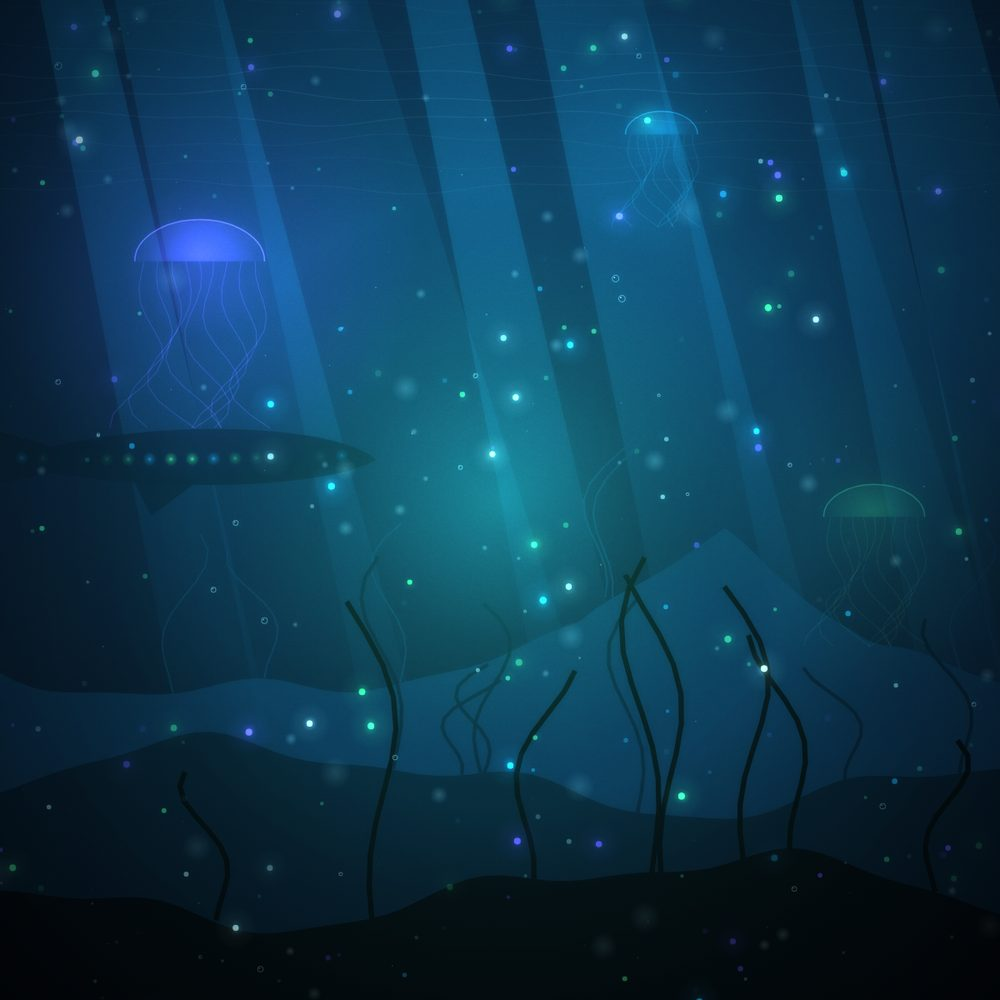
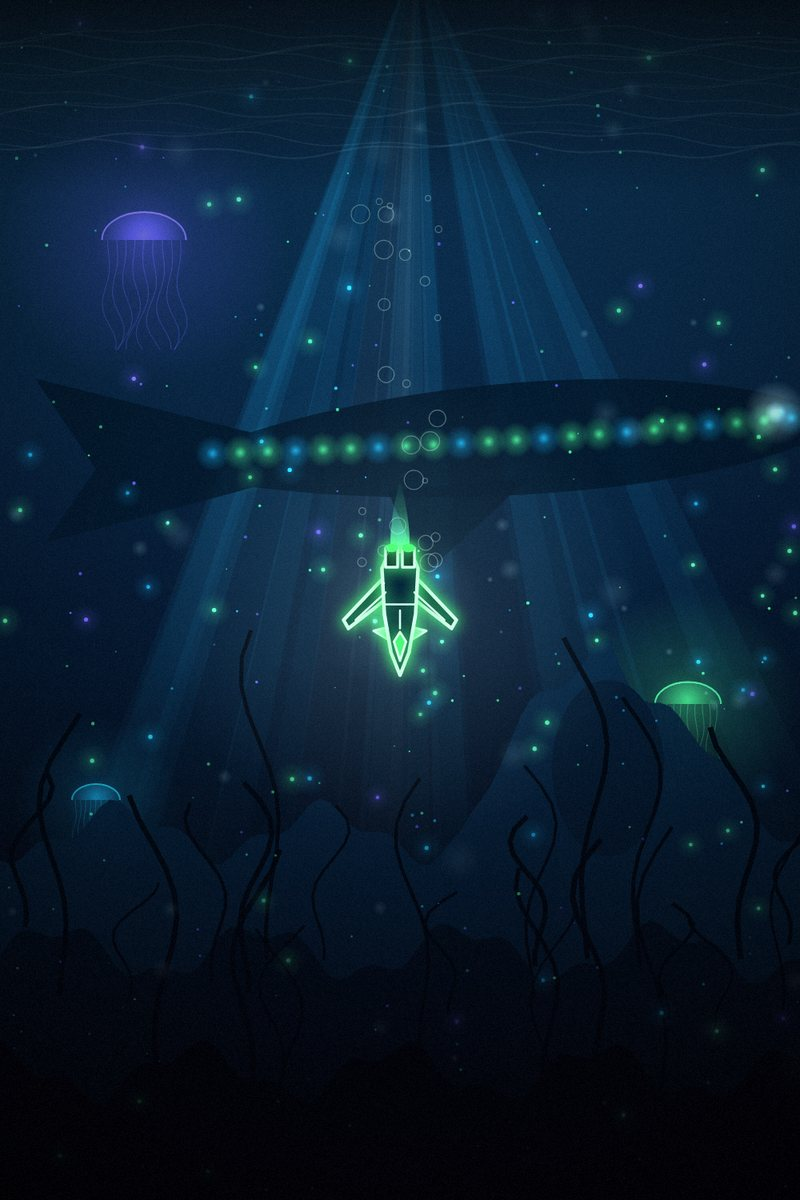
Movie-poster game tiles; site recoloured to the Celestial Co-Pilot palette
- Games tiles are now 2:3 posters: Last Mile Legends credit at the top, big
  title, tagline and release line over a darkened lower third. Placeholder
  poster art painted in code; swap in real key art under the same file names.
- Site tokens switched to the Celestial Co-Pilot brand-kit palette: deep space
  #0A0612, dark violet #1A1033, nebula purple #7B2FF7, magenta-violet #B24BF3,
  holo cyan #35E8E0, soft white #EDE9F5; hero starfield and glows follow.

Claude-Session: https://claude.ai/code/session_014bduxS6iZXM2bQADToQ5gz

diff --git a/website/index.html b/website/index.html
@@ -13,13 +13,16 @@
 /* Layout: a warp-starfield hero, then image-led game tiles, then narrow "shift log" sections; mono timestamps carry the night-shift theme. */
 :root {
   color-scheme: dark;
-  --night: #0B0820;      /* page ground, matches the logo background */
-  --dusk: #140F31;       /* raised surfaces */
-  --ink: #F1EDFF;        /* primary text */
-  --haze: #A9A1CC;       /* secondary text, purple-biased neutral */
-  --violet: #9B5CFF;     /* ring purple */
-  --aqua: #3FF2E3;       /* crescent aqua, used sparingly */
-  --line: rgba(155, 92, 255, 0.22);
+  /* Celestial Co-Pilot palette (Last Mile Legends brand kit) */
+  --night: #0A0612;      /* deep space: page ground */
+  --dusk: #1A1033;       /* dark violet: raised surfaces */
+  --ink: #EDE9F5;        /* soft white: primary text */
+  --haze: #A99CC8;       /* secondary text, violet-biased neutral */
+  --core: #7B2FF7;       /* nebula purple: brand core */
+  --violet: #B24BF3;     /* magenta-violet: brand glow, labels */
+  --aqua: #35E8E0;       /* holo cyan: HUD accent, used sparingly */
+  --gold: #F5C542;       /* warm gold: credits and highlights */
+  --line: rgba(178, 75, 243, 0.24);
   --font-display: "Michroma", "Eurostile", "Arial Black", sans-serif;
   --font-body: "Instrument Sans", "Segoe UI", system-ui, sans-serif;
   --font-mono: "JetBrains Mono", ui-monospace, "SFMono-Regular", Menlo, monospace;
@@ -77,10 +80,11 @@ svg { display: block; }
 
 /* Hero */
 .hero { position: relative; overflow: hidden; border-bottom: 1px solid var(--line); }
+.hero { background: radial-gradient(120% 90% at 30% 20%, #1A1033, var(--night) 60%); }
 .hero::after {
   content: ""; position: absolute; left: 50%; bottom: -55%; width: 140%; aspect-ratio: 3 / 1; max-width: none;
   transform: translateX(-50%); z-index: 0; pointer-events: none;
-  background: radial-gradient(closest-side, rgba(91, 33, 214, 0.38), rgba(20, 180, 217, 0.08) 60%, transparent);
+  background: radial-gradient(closest-side, rgba(123, 47, 247, 0.38), rgba(53, 232, 224, 0.08) 60%, transparent);
 }
 .hero .wrap { position: relative; z-index: 1; display: grid; justify-items: center; text-align: center; gap: 1.75rem; padding-block: clamp(3.5rem, 9vw, 6.5rem) clamp(3.5rem, 8vw, 5.5rem); }
 .hero h1 { margin: 0; width: min(100%, 30rem); }
@@ -95,9 +99,9 @@ svg { display: block; }
   border: 1px solid var(--line); transition: border-color 0.2s, background-color 0.2s, box-shadow 0.2s;
 }
 .btn-primary { background: var(--ink); color: var(--night); border-color: var(--ink); }
-.btn-primary:hover { box-shadow: 0 0 0 4px rgba(63, 242, 227, 0.25); }
-.btn-ghost { color: var(--ink); border-color: rgba(63, 242, 227, 0.65); background: rgba(63, 242, 227, 0.04); }
-.btn-ghost:hover { border-color: var(--aqua); background: rgba(63, 242, 227, 0.1); box-shadow: 0 0 22px -6px rgba(63, 242, 227, 0.7); }
+.btn-primary:hover { box-shadow: 0 0 0 4px rgba(53, 232, 224, 0.25); }
+.btn-ghost { color: var(--ink); border-color: rgba(53, 232, 224, 0.65); background: rgba(53, 232, 224, 0.04); }
+.btn-ghost:hover { border-color: var(--aqua); background: rgba(53, 232, 224, 0.1); box-shadow: 0 0 22px -6px rgba(53, 232, 224, 0.7); }
 
 /* Sections */
 section.block { padding-block: clamp(3.5rem, 8vw, 6rem); border-bottom: 1px solid var(--line); }
@@ -113,32 +117,33 @@ h2 { margin: 0 0 1.25rem; font: 400 var(--step-2)/1.3 var(--font-display); lette
 .split { display: grid; grid-template-columns: minmax(0, 5fr) minmax(0, 6fr); gap: clamp(2rem, 6vw, 5rem); align-items: start; }
 @media (max-width: 820px) { .split { grid-template-columns: minmax(0, 1fr); } }
 
-/* Games: one image tile per title. The frame is shared; each game's palette shows in its art, glow and status pill. */
+/* Games: one movie-poster tile per title. The frame is shared; each game's palette shows in its art, glow and accents.
+   The art is placeholder poster art rendered in code, to be swapped for painted key art (same file names, 2:3). */
 .games-lede { margin: 0; color: var(--haze); font-size: var(--step-1); }
 .games { list-style: none; margin: 2.25rem 0 0; padding: 0; display: grid; grid-template-columns: repeat(3, minmax(0, 1fr)); gap: clamp(1rem, 2.4vw, 1.5rem); }
 .game {
-  --tint: var(--aqua); --pill: var(--tint); --glow: rgba(63, 242, 227, 0.5);
-  position: relative; isolation: isolate; overflow: hidden; min-width: 0; aspect-ratio: 4 / 5;
+  --tint: var(--aqua); --pill: var(--tint); --glow: rgba(53, 232, 224, 0.5);
+  position: relative; isolation: isolate; overflow: hidden; min-width: 0; aspect-ratio: 2 / 3;
   border-radius: 20px; border: 1px solid var(--line); background: var(--night);
+  box-shadow: 0 30px 60px -30px rgba(0, 0, 0, 0.9);
   transition: border-color 0.3s, box-shadow 0.3s;
 }
-.game img { position: absolute; inset: 0; z-index: -2; width: 100%; height: 100%; object-fit: cover; transition: transform 0.9s cubic-bezier(0.2, 0.7, 0.2, 1); }
-.game::after { content: ""; position: absolute; inset: 0; z-index: -1; background: linear-gradient(180deg, rgba(11, 8, 32, 0) 38%, rgba(11, 8, 32, 0.6) 62%, rgba(11, 8, 32, 0.96)); }
-.game:hover { border-color: var(--tint); box-shadow: 0 0 46px -14px var(--glow); }
-.game:hover img { transform: scale(1.045); }
-.game__body { position: absolute; left: 0; right: 0; bottom: 0; display: grid; justify-items: start; gap: 0.45rem; padding: clamp(1.25rem, 3vw, 1.75rem); }
-.game__series { font: 500 0.68rem/1 var(--font-mono); letter-spacing: 0.22em; text-transform: uppercase; color: var(--tint); }
-.game__name { margin: 0; font: 400 clamp(1.2rem, 0.95rem + 0.9vw, 1.55rem)/1.2 var(--font-display); letter-spacing: 0.03em; text-wrap: balance; text-shadow: 0 0 26px var(--glow); }
-.game__hook { margin: 0; max-width: 34ch; color: rgba(241, 237, 255, 0.84); font-size: 0.95rem; line-height: 1.5; }
-.game__status {
-  margin-top: 0.4rem; padding: 0.5rem 0.8rem; border-radius: 999px; border: 1px solid var(--pill);
-  font: 600 0.68rem/1 var(--font-mono); letter-spacing: 0.16em; text-transform: uppercase; color: var(--pill);
-  background: color-mix(in srgb, var(--pill) 12%, transparent); box-shadow: 0 0 20px -6px var(--pill);
-}
-.game--celestial { --tint: #B98CFF; --glow: rgba(123, 47, 247, 0.65); }
-.game--redalert { --tint: #6FC3DF; --pill: #DF740C; --glow: rgba(111, 195, 223, 0.55); }
-.game--poseidon { --tint: #4FFF7B; --glow: rgba(79, 255, 123, 0.45); }
-@media (max-width: 900px) { .games { grid-template-columns: minmax(0, 1fr); } .game { aspect-ratio: 16 / 12; } }
+.game img { position: absolute; inset: 0; z-index: -2; width: 100%; height: 100%; object-fit: cover; transition: transform 1.1s cubic-bezier(0.2, 0.7, 0.2, 1); }
+/* keeps the credit and title legible over any art dropped in later */
+.game::after { content: ""; position: absolute; inset: 0; z-index: -1; background: linear-gradient(180deg, rgba(5, 4, 14, 0.55), rgba(5, 4, 14, 0) 16%, rgba(5, 4, 14, 0) 56%, rgba(5, 4, 14, 0.75) 82%, rgba(5, 4, 14, 0.95)); }
+.game:hover { border-color: var(--tint); box-shadow: 0 30px 60px -30px rgba(0, 0, 0, 0.9), 0 0 50px -14px var(--glow); }
+.game:hover img { transform: scale(1.04); }
+.poster { position: absolute; inset: 0; display: flex; flex-direction: column; justify-content: space-between; align-items: center; text-align: center; padding: clamp(1.1rem, 2.6vw, 1.6rem) clamp(1rem, 2.4vw, 1.5rem); }
+.poster__series { display: flex; align-items: center; gap: 0.65rem; margin: 0; font: 500 0.64rem/1 var(--font-mono); letter-spacing: 0.34em; text-transform: uppercase; color: var(--tint); text-shadow: 0 1px 8px rgba(0, 0, 0, 0.9); }
+.poster__series::before, .poster__series::after { content: ""; width: 1.4rem; height: 1px; background: currentColor; opacity: 0.6; }
+.poster__foot { display: grid; justify-items: center; gap: 0.6rem; }
+.poster__title { margin: 0; font: 400 clamp(1.35rem, 0.85rem + 1.7vw, 2.05rem)/1.12 var(--font-display); letter-spacing: 0.06em; text-transform: uppercase; text-wrap: balance; color: #fff; text-shadow: 0 0 30px var(--glow), 0 2px 16px rgba(0, 0, 0, 0.85); }
+.poster__tagline { margin: 0; max-width: 28ch; font-size: 0.92rem; line-height: 1.45; color: rgba(237, 233, 245, 0.88); text-wrap: balance; text-shadow: 0 1px 10px rgba(0, 0, 0, 0.9); }
+.poster__release { margin: 0.35rem 0 0; padding-top: 0.7rem; width: min(100%, 13rem); border-top: 1px solid color-mix(in srgb, var(--pill) 50%, transparent); font: 600 0.62rem/1 var(--font-mono); letter-spacing: 0.3em; text-transform: uppercase; color: var(--pill); }
+.game--celestial { --tint: #C9A6FF; --glow: rgba(123, 47, 247, 0.75); }
+.game--redalert { --tint: #6FC3DF; --pill: #FF7A33; --glow: rgba(255, 90, 31, 0.6); }
+.game--poseidon { --tint: #4FFF7B; --glow: rgba(79, 255, 123, 0.5); }
+@media (max-width: 900px) { .games { grid-template-columns: minmax(0, 1fr); max-width: 26rem; margin-inline: auto; } }
 @media (prefers-reduced-motion: reduce) { .game img { transition: none; } .game:hover img { transform: none; } }
 
 /* Studio copy */
@@ -296,30 +301,36 @@ footer .right { margin-left: auto; font-family: var(--font-mono); font-size: 0.7
       <p class="games-lede">Three games, one world, built on the drive you're already making.</p>
       <ul class="games">
         <li class="game game--celestial">
-          <img src="assets/games/celestial-co-pilot.jpg" width="1000" height="1000" loading="lazy" alt="A small ship tracing a glowing route across a violet city grid">
-          <div class="game__body">
-            <span class="game__series">Last Mile Legends</span>
-            <h3 class="game__name">Celestial Co-Pilot</h3>
-            <p class="game__hook">A sci-fi co-pilot riding shotgun on every real-world drive.</p>
-            <span class="game__status">In development</span>
+          <img src="assets/games/celestial-co-pilot.jpg" width="800" height="1200" loading="lazy" alt="A violet courier ship climbing over a glowing city toward a vast crescent world">
+          <div class="poster">
+            <p class="poster__series">Last Mile Legends</p>
+            <div class="poster__foot">
+              <h3 class="poster__title">Celestial Co-Pilot</h3>
+              <p class="poster__tagline">A sci-fi co-pilot riding shotgun on every real-world drive.</p>
+              <p class="poster__release">In development</p>
+            </div>
           </div>
         </li>
         <li class="game game--redalert">
-          <img src="assets/games/red-alert.jpg" width="1000" height="1000" loading="lazy" alt="A pilot in a cockpit, an orange alien cruiser locked in the targeting brackets beyond the glass">
-          <div class="game__body">
-            <span class="game__series">Last Mile Legends</span>
-            <h3 class="game__name">Red Alert</h3>
-            <p class="game__hook">Your city, mapped as a battlefield. Hands on the wheel the whole time.</p>
-            <span class="game__status">In development</span>
+          <img src="assets/games/red-alert.jpg" width="800" height="1200" loading="lazy" alt="A cyan starfighter racing a light trail across a neon grid toward a huge orange alien cruiser caught in targeting brackets">
+          <div class="poster">
+            <p class="poster__series">Last Mile Legends</p>
+            <div class="poster__foot">
+              <h3 class="poster__title">Red Alert</h3>
+              <p class="poster__tagline">Your city, mapped as a battlefield. Hands on the wheel the whole time.</p>
+              <p class="poster__release">In development</p>
+            </div>
           </div>
         </li>
         <li class="game game--poseidon">
-          <img src="assets/games/poseidon.jpg" width="1000" height="1000" loading="lazy" alt="Light shafts falling into a deep blue sea, green bioluminescence and jellyfish drifting over a seabed">
-          <div class="game__body">
-            <span class="game__series">Last Mile Legends</span>
-            <h3 class="game__name">Poseidon</h3>
-            <p class="game__hook">The deep is next.</p>
-            <span class="game__status">Coming soon</span>
+          <img src="assets/games/poseidon.jpg" width="800" height="1200" loading="lazy" alt="A small craft dropping through a shaft of light as a vast glowing leviathan glides past in the deep">
+          <div class="poster">
+            <p class="poster__series">Last Mile Legends</p>
+            <div class="poster__foot">
+              <h3 class="poster__title">Poseidon</h3>
+              <p class="poster__tagline">The deep is next.</p>
+              <p class="poster__release">Coming soon</p>
+            </div>
           </div>
         </li>
       </ul>
@@ -472,11 +483,11 @@ footer .right { margin-left: auto; font-family: var(--font-mono); font-size: 0.7
   const still = matchMedia("(prefers-reduced-motion: reduce)").matches;
   const TAU = Math.PI * 2;
   const NEB = [
-    { x: 0.22, y: 0.3, r: 0.55, c: "91,33,214", a: 0.26, sx: 0.05, sy: 0.04, sp: 0.05 },
-    { x: 0.8, y: 0.66, r: 0.5, c: "20,180,217", a: 0.14, sx: -0.045, sy: 0.035, sp: 0.04 },
-    { x: 0.55, y: 0.12, r: 0.38, c: "155,92,255", a: 0.16, sx: 0.04, sy: -0.03, sp: 0.033 },
+    { x: 0.22, y: 0.3, r: 0.55, c: "123,47,247", a: 0.26, sx: 0.05, sy: 0.04, sp: 0.05 },
+    { x: 0.8, y: 0.66, r: 0.5, c: "53,232,224", a: 0.14, sx: -0.045, sy: 0.035, sp: 0.04 },
+    { x: 0.55, y: 0.12, r: 0.38, c: "178,75,243", a: 0.16, sx: 0.04, sy: -0.03, sp: 0.033 },
   ];
-  const COLS = ["241,237,255", "241,237,255", "241,237,255", "63,242,227", "155,92,255"];
+  const COLS = ["237,233,245", "237,233,245", "237,233,245", "53,232,224", "178,75,243"];
   let stars = [], meteors = [], w = 0, h = 0, dpr = 1, cx = 0, cy = 0, reach = 1, last = 0, nextMet = 2, visible = true;
   const spawn = (near) => ({ a: Math.random() * TAU, d: near ? Math.random() * 0.05 : Math.random(), z: Math.random() * 0.85 + 0.15, p: Math.random() * TAU, c: COLS[(Math.random() * COLS.length) | 0] });
   function resize() {
@@ -518,7 +529,7 @@ footer .right { margin-left: auto; font-family: var(--font-mono); font-size: 0.7
       const dist = m.d * reach, tail = 0.08 * reach, x = cx + Math.cos(m.a) * dist, y = cy + Math.sin(m.a) * dist;
       const tx = cx + Math.cos(m.a) * (dist - tail), ty = cy + Math.sin(m.a) * (dist - tail);
       const g = ctx.createLinearGradient(x, y, tx, ty);
-      g.addColorStop(0, "rgba(241,237,255,0.9)"); g.addColorStop(0.35, "rgba(63,242,227,0.4)"); g.addColorStop(1, "rgba(63,242,227,0)");
+      g.addColorStop(0, "rgba(237, 233, 245,0.9)"); g.addColorStop(0.35, "rgba(53, 232, 224,0.4)"); g.addColorStop(1, "rgba(53, 232, 224,0)");
       ctx.strokeStyle = g; ctx.lineWidth = 1.6; ctx.beginPath(); ctx.moveTo(x, y); ctx.lineTo(tx, ty); ctx.stroke();
       return true;
     });

diff --git a/website/src/page.html b/website/src/page.html
@@ -8,13 +8,16 @@
 /* Layout: a warp-starfield hero, then image-led game tiles, then narrow "shift log" sections; mono timestamps carry the night-shift theme. */
 :root {
   color-scheme: dark;
-  --night: #0B0820;      /* page ground, matches the logo background */
-  --dusk: #140F31;       /* raised surfaces */
-  --ink: #F1EDFF;        /* primary text */
-  --haze: #A9A1CC;       /* secondary text, purple-biased neutral */
-  --violet: #9B5CFF;     /* ring purple */
-  --aqua: #3FF2E3;       /* crescent aqua, used sparingly */
-  --line: rgba(155, 92, 255, 0.22);
+  /* Celestial Co-Pilot palette (Last Mile Legends brand kit) */
+  --night: #0A0612;      /* deep space: page ground */
+  --dusk: #1A1033;       /* dark violet: raised surfaces */
+  --ink: #EDE9F5;        /* soft white: primary text */
+  --haze: #A99CC8;       /* secondary text, violet-biased neutral */
+  --core: #7B2FF7;       /* nebula purple: brand core */
+  --violet: #B24BF3;     /* magenta-violet: brand glow, labels */
+  --aqua: #35E8E0;       /* holo cyan: HUD accent, used sparingly */
+  --gold: #F5C542;       /* warm gold: credits and highlights */
+  --line: rgba(178, 75, 243, 0.24);
   --font-display: "Michroma", "Eurostile", "Arial Black", sans-serif;
   --font-body: "Instrument Sans", "Segoe UI", system-ui, sans-serif;
   --font-mono: "JetBrains Mono", ui-monospace, "SFMono-Regular", Menlo, monospace;
@@ -72,10 +75,11 @@ svg { display: block; }
 
 /* Hero */
 .hero { position: relative; overflow: hidden; border-bottom: 1px solid var(--line); }
+.hero { background: radial-gradient(120% 90% at 30% 20%, #1A1033, var(--night) 60%); }
 .hero::after {
   content: ""; position: absolute; left: 50%; bottom: -55%; width: 140%; aspect-ratio: 3 / 1; max-width: none;
   transform: translateX(-50%); z-index: 0; pointer-events: none;
-  background: radial-gradient(closest-side, rgba(91, 33, 214, 0.38), rgba(20, 180, 217, 0.08) 60%, transparent);
+  background: radial-gradient(closest-side, rgba(123, 47, 247, 0.38), rgba(53, 232, 224, 0.08) 60%, transparent);
 }
 .hero .wrap { position: relative; z-index: 1; display: grid; justify-items: center; text-align: center; gap: 1.75rem; padding-block: clamp(3.5rem, 9vw, 6.5rem) clamp(3.5rem, 8vw, 5.5rem); }
 .hero h1 { margin: 0; width: min(100%, 30rem); }
@@ -90,9 +94,9 @@ svg { display: block; }
   border: 1px solid var(--line); transition: border-color 0.2s, background-color 0.2s, box-shadow 0.2s;
 }
 .btn-primary { background: var(--ink); color: var(--night); border-color: var(--ink); }
-.btn-primary:hover { box-shadow: 0 0 0 4px rgba(63, 242, 227, 0.25); }
-.btn-ghost { color: var(--ink); border-color: rgba(63, 242, 227, 0.65); background: rgba(63, 242, 227, 0.04); }
-.btn-ghost:hover { border-color: var(--aqua); background: rgba(63, 242, 227, 0.1); box-shadow: 0 0 22px -6px rgba(63, 242, 227, 0.7); }
+.btn-primary:hover { box-shadow: 0 0 0 4px rgba(53, 232, 224, 0.25); }
+.btn-ghost { color: var(--ink); border-color: rgba(53, 232, 224, 0.65); background: rgba(53, 232, 224, 0.04); }
+.btn-ghost:hover { border-color: var(--aqua); background: rgba(53, 232, 224, 0.1); box-shadow: 0 0 22px -6px rgba(53, 232, 224, 0.7); }
 
 /* Sections */
 section.block { padding-block: clamp(3.5rem, 8vw, 6rem); border-bottom: 1px solid var(--line); }
@@ -108,32 +112,33 @@ h2 { margin: 0 0 1.25rem; font: 400 var(--step-2)/1.3 var(--font-display); lette
 .split { display: grid; grid-template-columns: minmax(0, 5fr) minmax(0, 6fr); gap: clamp(2rem, 6vw, 5rem); align-items: start; }
 @media (max-width: 820px) { .split { grid-template-columns: minmax(0, 1fr); } }
 
-/* Games: one image tile per title. The frame is shared; each game's palette shows in its art, glow and status pill. */
+/* Games: one movie-poster tile per title. The frame is shared; each game's palette shows in its art, glow and accents.
+   The art is placeholder poster art rendered in code, to be swapped for painted key art (same file names, 2:3). */
 .games-lede { margin: 0; color: var(--haze); font-size: var(--step-1); }
 .games { list-style: none; margin: 2.25rem 0 0; padding: 0; display: grid; grid-template-columns: repeat(3, minmax(0, 1fr)); gap: clamp(1rem, 2.4vw, 1.5rem); }
 .game {
-  --tint: var(--aqua); --pill: var(--tint); --glow: rgba(63, 242, 227, 0.5);
-  position: relative; isolation: isolate; overflow: hidden; min-width: 0; aspect-ratio: 4 / 5;
+  --tint: var(--aqua); --pill: var(--tint); --glow: rgba(53, 232, 224, 0.5);
+  position: relative; isolation: isolate; overflow: hidden; min-width: 0; aspect-ratio: 2 / 3;
   border-radius: 20px; border: 1px solid var(--line); background: var(--night);
+  box-shadow: 0 30px 60px -30px rgba(0, 0, 0, 0.9);
   transition: border-color 0.3s, box-shadow 0.3s;
 }
-.game img { position: absolute; inset: 0; z-index: -2; width: 100%; height: 100%; object-fit: cover; transition: transform 0.9s cubic-bezier(0.2, 0.7, 0.2, 1); }
-.game::after { content: ""; position: absolute; inset: 0; z-index: -1; background: linear-gradient(180deg, rgba(11, 8, 32, 0) 38%, rgba(11, 8, 32, 0.6) 62%, rgba(11, 8, 32, 0.96)); }
-.game:hover { border-color: var(--tint); box-shadow: 0 0 46px -14px var(--glow); }
-.game:hover img { transform: scale(1.045); }
-.game__body { position: absolute; left: 0; right: 0; bottom: 0; display: grid; justify-items: start; gap: 0.45rem; padding: clamp(1.25rem, 3vw, 1.75rem); }
-.game__series { font: 500 0.68rem/1 var(--font-mono); letter-spacing: 0.22em; text-transform: uppercase; color: var(--tint); }
-.game__name { margin: 0; font: 400 clamp(1.2rem, 0.95rem + 0.9vw, 1.55rem)/1.2 var(--font-display); letter-spacing: 0.03em; text-wrap: balance; text-shadow: 0 0 26px var(--glow); }
-.game__hook { margin: 0; max-width: 34ch; color: rgba(241, 237, 255, 0.84); font-size: 0.95rem; line-height: 1.5; }
-.game__status {
-  margin-top: 0.4rem; padding: 0.5rem 0.8rem; border-radius: 999px; border: 1px solid var(--pill);
-  font: 600 0.68rem/1 var(--font-mono); letter-spacing: 0.16em; text-transform: uppercase; color: var(--pill);
-  background: color-mix(in srgb, var(--pill) 12%, transparent); box-shadow: 0 0 20px -6px var(--pill);
-}
-.game--celestial { --tint: #B98CFF; --glow: rgba(123, 47, 247, 0.65); }
-.game--redalert { --tint: #6FC3DF; --pill: #DF740C; --glow: rgba(111, 195, 223, 0.55); }
-.game--poseidon { --tint: #4FFF7B; --glow: rgba(79, 255, 123, 0.45); }
-@media (max-width: 900px) { .games { grid-template-columns: minmax(0, 1fr); } .game { aspect-ratio: 16 / 12; } }
+.game img { position: absolute; inset: 0; z-index: -2; width: 100%; height: 100%; object-fit: cover; transition: transform 1.1s cubic-bezier(0.2, 0.7, 0.2, 1); }
+/* keeps the credit and title legible over any art dropped in later */
+.game::after { content: ""; position: absolute; inset: 0; z-index: -1; background: linear-gradient(180deg, rgba(5, 4, 14, 0.55), rgba(5, 4, 14, 0) 16%, rgba(5, 4, 14, 0) 56%, rgba(5, 4, 14, 0.75) 82%, rgba(5, 4, 14, 0.95)); }
+.game:hover { border-color: var(--tint); box-shadow: 0 30px 60px -30px rgba(0, 0, 0, 0.9), 0 0 50px -14px var(--glow); }
+.game:hover img { transform: scale(1.04); }
+.poster { position: absolute; inset: 0; display: flex; flex-direction: column; justify-content: space-between; align-items: center; text-align: center; padding: clamp(1.1rem, 2.6vw, 1.6rem) clamp(1rem, 2.4vw, 1.5rem); }
+.poster__series { display: flex; align-items: center; gap: 0.65rem; margin: 0; font: 500 0.64rem/1 var(--font-mono); letter-spacing: 0.34em; text-transform: uppercase; color: var(--tint); text-shadow: 0 1px 8px rgba(0, 0, 0, 0.9); }
+.poster__series::before, .poster__series::after { content: ""; width: 1.4rem; height: 1px; background: currentColor; opacity: 0.6; }
+.poster__foot { display: grid; justify-items: center; gap: 0.6rem; }
+.poster__title { margin: 0; font: 400 clamp(1.35rem, 0.85rem + 1.7vw, 2.05rem)/1.12 var(--font-display); letter-spacing: 0.06em; text-transform: uppercase; text-wrap: balance; color: #fff; text-shadow: 0 0 30px var(--glow), 0 2px 16px rgba(0, 0, 0, 0.85); }
+.poster__tagline { margin: 0; max-width: 28ch; font-size: 0.92rem; line-height: 1.45; color: rgba(237, 233, 245, 0.88); text-wrap: balance; text-shadow: 0 1px 10px rgba(0, 0, 0, 0.9); }
+.poster__release { margin: 0.35rem 0 0; padding-top: 0.7rem; width: min(100%, 13rem); border-top: 1px solid color-mix(in srgb, var(--pill) 50%, transparent); font: 600 0.62rem/1 var(--font-mono); letter-spacing: 0.3em; text-transform: uppercase; color: var(--pill); }
+.game--celestial { --tint: #C9A6FF; --glow: rgba(123, 47, 247, 0.75); }
+.game--redalert { --tint: #6FC3DF; --pill: #FF7A33; --glow: rgba(255, 90, 31, 0.6); }
+.game--poseidon { --tint: #4FFF7B; --glow: rgba(79, 255, 123, 0.5); }
+@media (max-width: 900px) { .games { grid-template-columns: minmax(0, 1fr); max-width: 26rem; margin-inline: auto; } }
 @media (prefers-reduced-motion: reduce) { .game img { transition: none; } .game:hover img { transform: none; } }
 
 /* Studio copy */
@@ -223,30 +228,36 @@ footer .right { margin-left: auto; font-family: var(--font-mono); font-size: 0.7
       <p class="games-lede">Three games, one world, built on the drive you're already making.</p>
       <ul class="games">
         <li class="game game--celestial">
-          <img src="assets/games/celestial-co-pilot.jpg" width="1000" height="1000" loading="lazy" alt="A small ship tracing a glowing route across a violet city grid">
-          <div class="game__body">
-            <span class="game__series">Last Mile Legends</span>
-            <h3 class="game__name">Celestial Co-Pilot</h3>
-            <p class="game__hook">A sci-fi co-pilot riding shotgun on every real-world drive.</p>
-            <span class="game__status">In development</span>
+          <img src="assets/games/celestial-co-pilot.jpg" width="800" height="1200" loading="lazy" alt="A violet courier ship climbing over a glowing city toward a vast crescent world">
+          <div class="poster">
+            <p class="poster__series">Last Mile Legends</p>
+            <div class="poster__foot">
+              <h3 class="poster__title">Celestial Co-Pilot</h3>
+              <p class="poster__tagline">A sci-fi co-pilot riding shotgun on every real-world drive.</p>
+              <p class="poster__release">In development</p>
+            </div>
           </div>
         </li>
         <li class="game game--redalert">
-          <img src="assets/games/red-alert.jpg" width="1000" height="1000" loading="lazy" alt="A pilot in a cockpit, an orange alien cruiser locked in the targeting brackets beyond the glass">
-          <div class="game__body">
-            <span class="game__series">Last Mile Legends</span>
-            <h3 class="game__name">Red Alert</h3>
-            <p class="game__hook">Your city, mapped as a battlefield. Hands on the wheel the whole time.</p>
-            <span class="game__status">In development</span>
+          <img src="assets/games/red-alert.jpg" width="800" height="1200" loading="lazy" alt="A cyan starfighter racing a light trail across a neon grid toward a huge orange alien cruiser caught in targeting brackets">
+          <div class="poster">
+            <p class="poster__series">Last Mile Legends</p>
+            <div class="poster__foot">
+              <h3 class="poster__title">Red Alert</h3>
+              <p class="poster__tagline">Your city, mapped as a battlefield. Hands on the wheel the whole time.</p>
+              <p class="poster__release">In development</p>
+            </div>
           </div>
         </li>
         <li class="game game--poseidon">
-          <img src="assets/games/poseidon.jpg" width="1000" height="1000" loading="lazy" alt="Light shafts falling into a deep blue sea, green bioluminescence and jellyfish drifting over a seabed">
-          <div class="game__body">
-            <span class="game__series">Last Mile Legends</span>
-            <h3 class="game__name">Poseidon</h3>
-            <p class="game__hook">The deep is next.</p>
-            <span class="game__status">Coming soon</span>
+          <img src="assets/games/poseidon.jpg" width="800" height="1200" loading="lazy" alt="A small craft dropping through a shaft of light as a vast glowing leviathan glides past in the deep">
+          <div class="poster">
+            <p class="poster__series">Last Mile Legends</p>
+            <div class="poster__foot">
+              <h3 class="poster__title">Poseidon</h3>
+              <p class="poster__tagline">The deep is next.</p>
+              <p class="poster__release">Coming soon</p>
+            </div>
           </div>
         </li>
       </ul>
@@ -367,11 +378,11 @@ footer .right { margin-left: auto; font-family: var(--font-mono); font-size: 0.7
   const still = matchMedia("(prefers-reduced-motion: reduce)").matches;
   const TAU = Math.PI * 2;
   const NEB = [
-    { x: 0.22, y: 0.3, r: 0.55, c: "91,33,214", a: 0.26, sx: 0.05, sy: 0.04, sp: 0.05 },
-    { x: 0.8, y: 0.66, r: 0.5, c: "20,180,217", a: 0.14, sx: -0.045, sy: 0.035, sp: 0.04 },
-    { x: 0.55, y: 0.12, r: 0.38, c: "155,92,255", a: 0.16, sx: 0.04, sy: -0.03, sp: 0.033 },
+    { x: 0.22, y: 0.3, r: 0.55, c: "123,47,247", a: 0.26, sx: 0.05, sy: 0.04, sp: 0.05 },
+    { x: 0.8, y: 0.66, r: 0.5, c: "53,232,224", a: 0.14, sx: -0.045, sy: 0.035, sp: 0.04 },
+    { x: 0.55, y: 0.12, r: 0.38, c: "178,75,243", a: 0.16, sx: 0.04, sy: -0.03, sp: 0.033 },
   ];
-  const COLS = ["241,237,255", "241,237,255", "241,237,255", "63,242,227", "155,92,255"];
+  const COLS = ["237,233,245", "237,233,245", "237,233,245", "53,232,224", "178,75,243"];
   let stars = [], meteors = [], w = 0, h = 0, dpr = 1, cx = 0, cy = 0, reach = 1, last = 0, nextMet = 2, visible = true;
   const spawn = (near) => ({ a: Math.random() * TAU, d: near ? Math.random() * 0.05 : Math.random(), z: Math.random() * 0.85 + 0.15, p: Math.random() * TAU, c: COLS[(Math.random() * COLS.length) | 0] });
   function resize() {
@@ -413,7 +424,7 @@ footer .right { margin-left: auto; font-family: var(--font-mono); font-size: 0.7
       const dist = m.d * reach, tail = 0.08 * reach, x = cx + Math.cos(m.a) * dist, y = cy + Math.sin(m.a) * dist;
       const tx = cx + Math.cos(m.a) * (dist - tail), ty = cy + Math.sin(m.a) * (dist - tail);
       const g = ctx.createLinearGradient(x, y, tx, ty);
-      g.addColorStop(0, "rgba(241,237,255,0.9)"); g.addColorStop(0.35, "rgba(63,242,227,0.4)"); g.addColorStop(1, "rgba(63,242,227,0)");
+      g.addColorStop(0, "rgba(237, 233, 245,0.9)"); g.addColorStop(0.35, "rgba(53, 232, 224,0.4)"); g.addColorStop(1, "rgba(53, 232, 224,0)");
       ctx.strokeStyle = g; ctx.lineWidth = 1.6; ctx.beginPath(); ctx.moveTo(x, y); ctx.lineTo(tx, ty); ctx.stroke();
       return true;
     });
